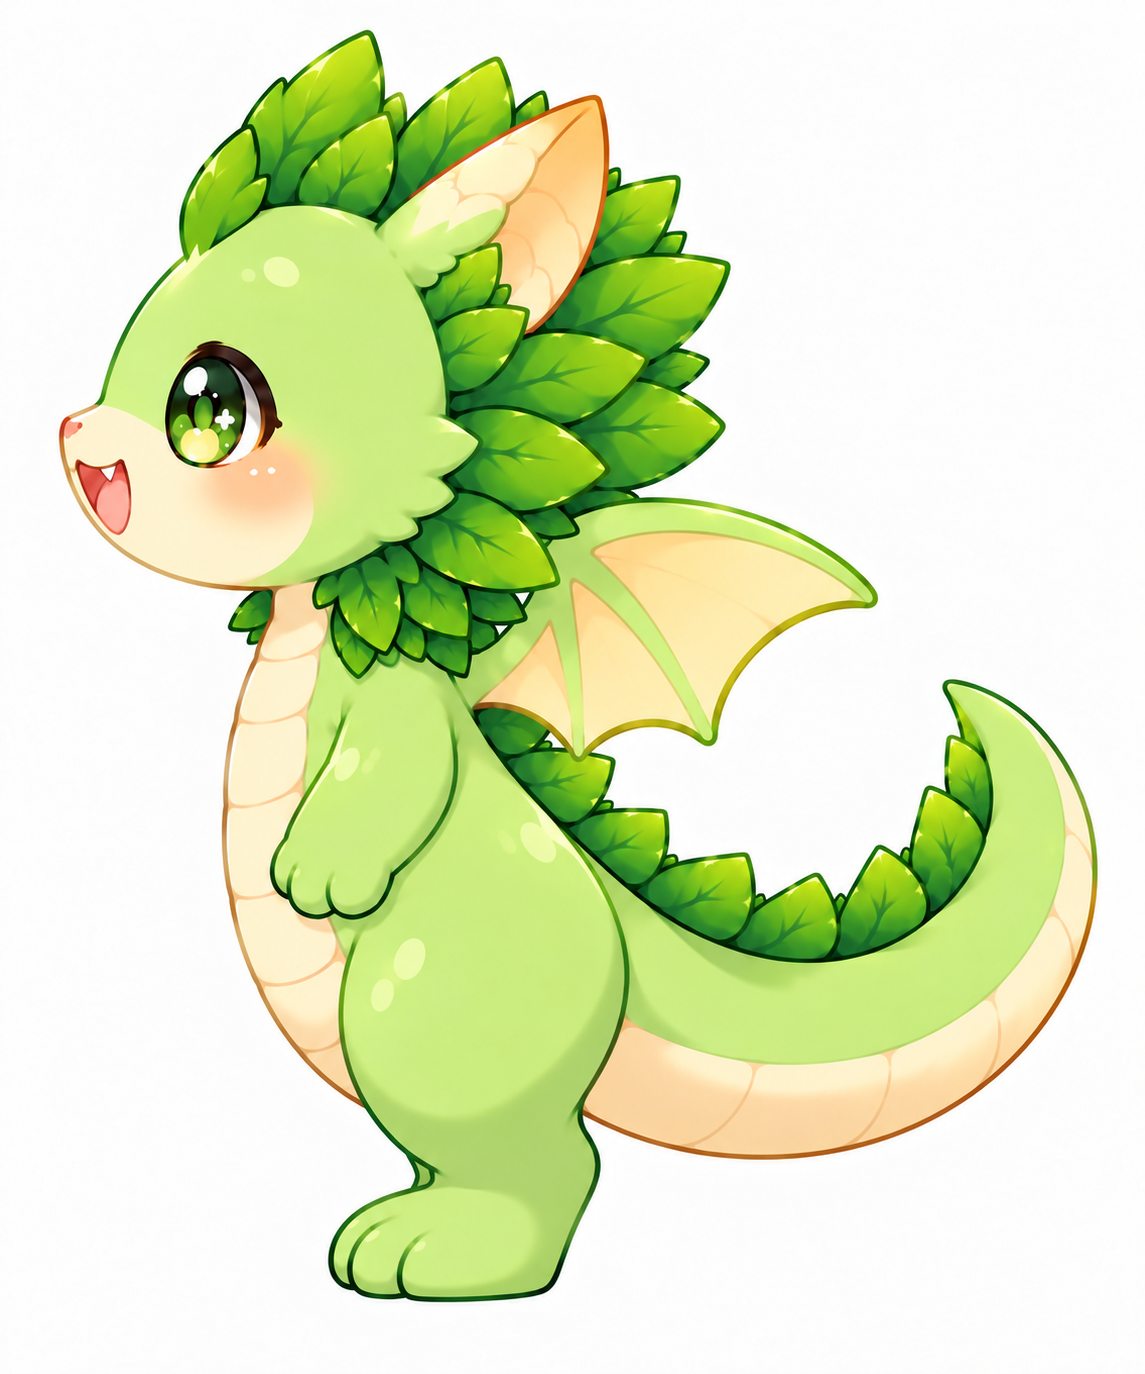
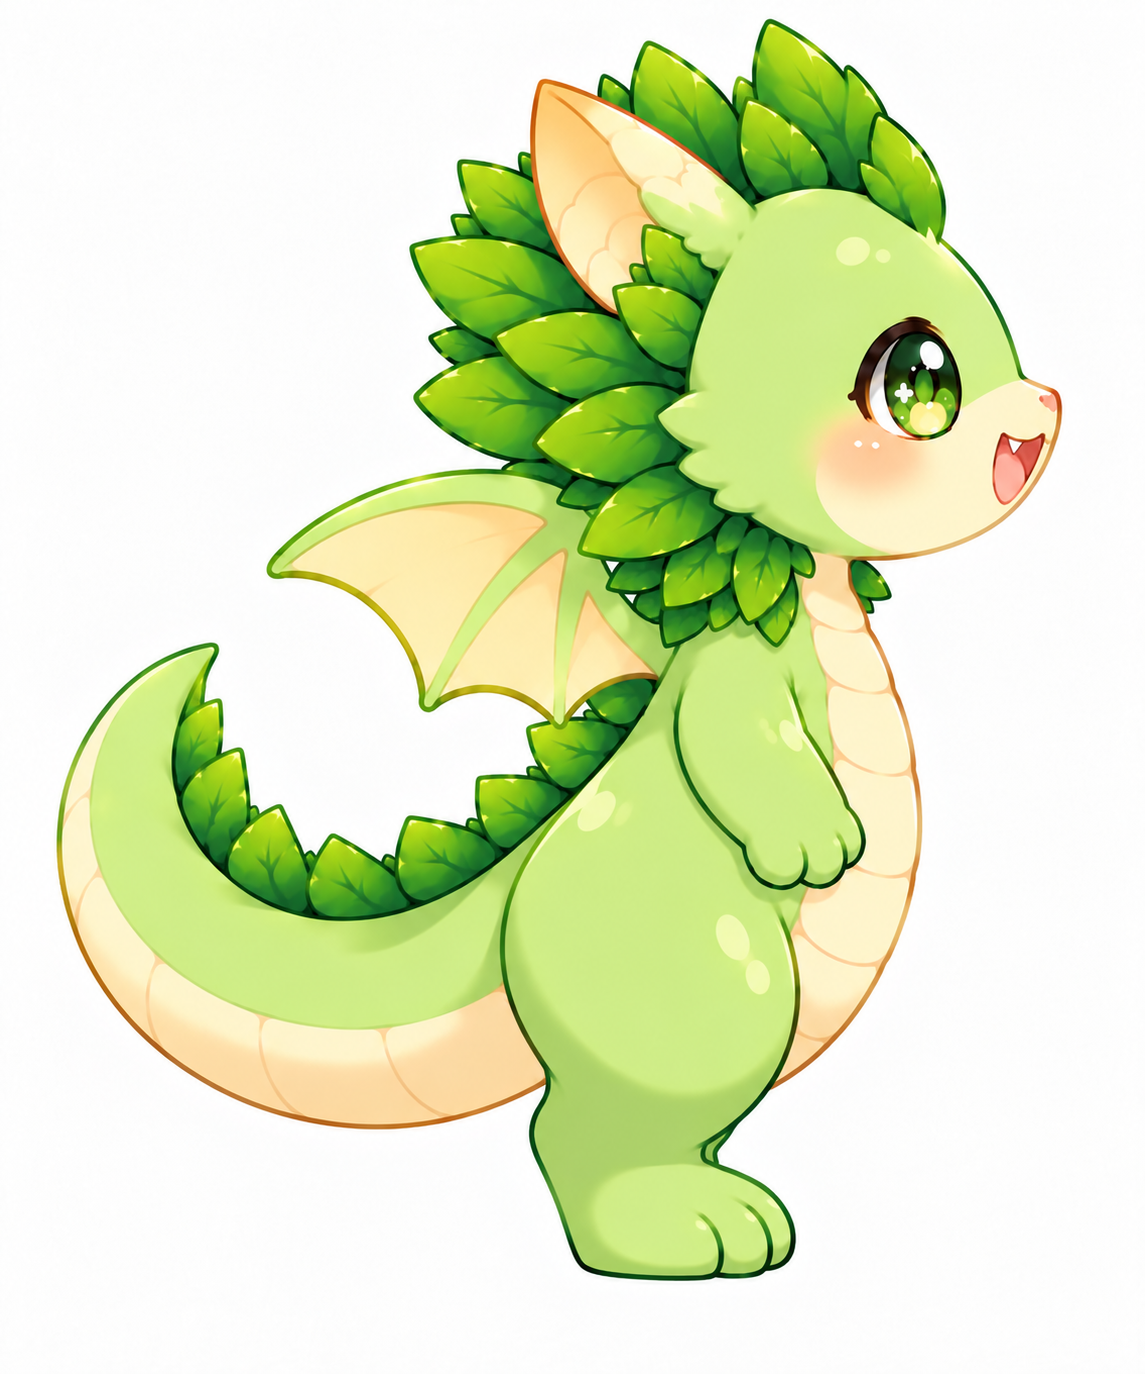
fix(grimo): replace Jill right view and record Carol three-view decision

diff --git a/docs/grimo/knowledge/character-production/GRIMO_BODY_ONLY_MULTIVIEW_ASSET_REGISTER.md b/docs/grimo/knowledge/character-production/GRIMO_BODY_ONLY_MULTIVIEW_ASSET_REGISTER.md
@@ -1,8 +1,8 @@
 # Grimo — Body-only Multiview Asset Register
 
-**Status:** 15/16 selected PNGs are registered at their production paths with hash-verified manifest entries. Carol Back is unavailable and remains pending. Tripo technical preflight is pending for all registered images.
+**Status:** All 15 currently selected PNGs are registered at their production paths with hash-verified manifest entries. Carol Back is intentionally omitted by Human decision; the planned three-view Tripo input is not yet confirmed as supported. Tripo technical preflight is pending for all registered images.
 **Updated:** 2026-10-11
-**Scope:** Carol / Jill / Pino / Shushu, four orthographic-ish source views per character. This is a scoped production registry, **not** replacement canonical identity.
+**Scope:** Carol has three selected views; Jill, Pino, and Shushu have four each. This is a scoped production registry, **not** replacement canonical identity.
 
 ## 1. Authority and safety
 
@@ -10,7 +10,7 @@
 2. Approved full-design art and established Carol geometry/support documents are preserved; body-only views are **derived image-to-3D inputs only**.
 3. Retain anatomical/identity-critical fleece, leaves, horns, wings, ears, eyes, paws/hooves, tail, markings. Remove only independently authored props (Carol moon/stars; Jill loose flowers/butterflies; Pino bubbles/water; Shushu crown/bouquet/loose flowers).
 4. The 2026-10-11 Human visual decisions accept Jill/Pino/Shushu **Front, left-facing Side, right-facing Opposite Side, Back** as 2D candidates. Jill's peach-colored paired head appendages are interpreted as **horn-like anatomy**, rather than conventional ears; do not perform an automatic "ear-back recolor" that would rewrite accepted appearance. Preserve head leaves, wing and tail relationships. Body markings that may have drifted (e.g. Jill's canonical clover) remain a later identity/material QA obligation.
-5. Carol's body-only Front, left-facing Side and right-facing Opposite Side have been recovered from prior user images; **do not presume a particular historical Carol Back revision is final** without matching the user's selected local source. Carol Back should pass the Human-visible body taper and three-part hoof/rear-foot identity check before promotion.
+5. Carol's body-only Front, left-facing Side and right-facing Opposite Side are the approved inputs. Human decided on 2026-10-11 not to create or use a Back image because repeated Back candidates failed the lower-body taper, hoof shape, and three-dimensional connection quality checks. Try the three approved views in Tripo if supported; this does not guarantee accurate reconstruction of unseen rear anatomy.
 6. No 2D approval implies successful Tripo reconstruction, mesh topology, rigging, motion, material, or mobile performance. No paid Tripo use without approval.
 
 ## 2. Proposed canonical *production-input* placement
@@ -19,7 +19,7 @@ Create each file below, retaining the **original PNG bytes**. These paths are di
 
 | Character | Front | Left-facing Side | Right-facing Opposite | Back |
 | --- | --- | --- | --- | --- |
-| Carol | `carol_bodyonly_front.png` | `carol_bodyonly_left.png` | `carol_bodyonly_right.png` | `carol_bodyonly_back.png` |
+| Carol | `carol_bodyonly_front.png` | `carol_bodyonly_left.png` | `carol_bodyonly_right.png` | *intentionally omitted by Human decision* |
 | Jill | `jill_bodyonly_front.png` | `jill_bodyonly_left.png` | `jill_bodyonly_right.png` | `jill_bodyonly_back.png` |
 | Pino | `pino_bodyonly_front.png` | `pino_bodyonly_left.png` | `pino_bodyonly_right.png` | `pino_bodyonly_back.png` |
 | Shushu | `shushu_bodyonly_front.png` | `shushu_bodyonly_left.png` | `shushu_bodyonly_right.png` | `shushu_bodyonly_back.png` |
@@ -32,7 +32,7 @@ Here **left/right mean the direction the character faces *on the image***: `left
 
 ## 2.1 Byte-exact source verification (15 verified originals)
 
-The following are **SHA-256 of the PNG bytes actually exported in the 2026-10-11 conversation**, verified before this register was authored. Use them to distinguish approved artwork from similarly named old images. Different PNG canvas sizes are intentional source facts, **not** instructions to resize the artwork. If a user-supplied local file does not match, report the discrepancy rather than silently replacing it. Carol Back is not in this verified set and is unavailable in the current import; the user confirmed no source is available. Its manifest entry is pending without fabricated dimensions or hash.
+The registered SHA-256 values identify the original PNG bytes. Different PNG canvas sizes are intentional source facts, **not** instructions to resize the artwork. If a user-supplied local file does not match, report the discrepancy rather than silently replacing it. Carol Back has no selected or registered source by Human decision; no pending file entry is required.
 
 | File | Dimensions (px) | SHA-256 |
 | --- | --- | --- |
@@ -42,7 +42,7 @@ The following are **SHA-256 of the PNG bytes actually exported in the 2026-10-11
[8 lines of base64/hex data omitted]
@@ -55,7 +55,7 @@ The following are **SHA-256 of the PNG bytes actually exported in the 2026-10-11
 ## 3. Registration requirements for local image-placement task
 
 - Start from actual current branch, working tree, and repository instructions; do not infer uploads exist in the remote. Locate newly added PNGs even when currently untracked.
-- Inspect the 16 selected images visually or against an image contact sheet and check their original provenance. Identify Carol Back from the user's *actual* final candidate rather than filename order, modification time or the first "back" match. If ambiguous, leave it pending and report clearly; do not fabricate, overwrite or silently substitute.
+- Inspect the 15 selected images visually and check their original provenance. Carol Back is excluded by the current Human decision; do not create a substitute or treat its absence as a pending asset task.
 - Preserve the bytes of the selected approved sources; compare SHA-256 before and after move/copy, and check simple PNG readability and dimensions. Do not regenerate, upscale, crop, normalize, or resave originals.
 - Only canonicalize clear duplicates/old versions **within this import's scope**. Before archiving/removing an old file, check its references, original authority role and unique bytes. Keep historically approved art, `approved-3d/`, original Carol Normal/Skin and image evidence intact.
 - If a duplicate is referenced from code/docs, update only the relevant references after verifying the intended authority. No bulk text replace across unrelated documentation.
@@ -72,4 +72,10 @@ The following are **SHA-256 of the PNG bytes actually exported in the 2026-10-11
 | Pino | Huge rounded *single* tail joining the rear pelvis, compact low body, short limbs, complete eye anatomy (original wink is an expression), underside paw pads |
 | Shushu | Large plush head, pink ear volumes and round body, short distinguishable limbs, grounded squat/sitting motion capability, sole/pad details; floral crown/bouquet are independent props |
 
-**Execution status (2026-10-11):** Fifteen verified PNGs are registered under the paths above; `assets/grimo/source/body-only-multiview-manifest.json` records measured dimensions and hashes. Carol Back remains unavailable/pending. All registered assets remain `BODY_ONLY_REFERENCE_ACCEPTED / TRIPO_PREFLIGHT_PENDING`; no Tripo-ready status is claimed.
+**Execution status (2026-10-11):** Fifteen selected PNGs are registered under the paths above; `assets/grimo/source/body-only-multiview-manifest.json` records measured dimensions and hashes. The 15-image count reflects the current selected set: three Carol views and four views for each other character. Carol's three approved views are the planned Tripo input; Studio support for three views and any recovered rear quality are unknown. All registered assets remain `BODY_ONLY_REFERENCE_ACCEPTED / TRIPO_PREFLIGHT_PENDING`; no Tripo-ready status is claimed.
+
+### Decision log — 2026-10-11 (Human)
+
[1 lines of base64/hex data omitted]
+- **Carol Back:** Repeated generated Back candidates did not meet quality for the lower-body taper, hooves, and three-dimensional connections. Do not generate or use a Back source for this input plan; try the approved Front/Left/Right set only if Tripo supports three views.
+- **Still unverified:** Tripo camera-slot mapping, support for three-view input, and the quality of any generated Carol model, especially unseen rear anatomy. The 2D selections do not establish Tripo or Rig readiness.

diff --git a/docs/production/motion/GRIMO_MOTION_EVIDENCE_PACK_DRAFT.md b/docs/production/motion/GRIMO_MOTION_EVIDENCE_PACK_DRAFT.md
@@ -67,7 +67,7 @@
 | Generation Pose = Rest Pose = Game Neutralという誤同一視 | **P/U**。入力形状を読みやすくする姿勢、rigの基準姿勢、体験上の通常姿勢を分離。POSEの角度/clearanceは実測ではない。Pino/Shushu座位Game NeutralはPLAN上まだ候補 | POSE §§0,2–7; PLAN §1 |
 | 旧制作方式・budget・数値 | **P**。LIVINGのruntime/制作推奨、CAROL冒頭のruntime baseline hypothesis、CAMERAのCarol「Final contract」という見出しを新しい技術決定に昇格しない。Full-Spatial+View-Weighted Polishは現行能力要件。mesh/rig/骨数/solver/手順は未確定 | ARCH §§0,2,11,21; OPS §§2,13; ANATOMY authority boundary |
 | Tripo適合性 | **U**。Studio 3D/auto-rig/preset/eligible Text-to-Motionを優先評価し、不足はCodex/Blenderで修復/制作するという**Aの方針**。4匹に使えること、品質、StudioとAPIの同等性は未検証。POSEの外部Help/slot記述はXであり最新能力の保証ではない。credit使用は明示Human承認が必要 | PLAN §0, Phase 4; POSE §§7–9 |
-| 2D selection vs production readiness | **A/U**。VIEWSは15/16登録、Carol Back unavailable/pending、全画像TRIPO_PREFLIGHT_PENDING。Jillの桃色頭部付属は最新Human解釈でhorn-like。左右名はimage-facing方向であり解剖学/Studio slotと異なる。clover等のmaterial QAは未完 | VIEWS §§1–3,6; INDEX; POSE §8 |
+| 2D selection vs production readiness | **A/U**。VIEWSには現在選定された15画像を登録済み。Carol BackはHuman判断で不使用、全画像TRIPO_PREFLIGHT_PENDING。Jillの桃色頭部付属は最新Human解釈でhorn-like。左右名はimage-facing方向であり解剖学/Studio slotと異なる。clover等のmaterial QAは未完 | VIEWS §§1–3,6; INDEX; POSE §8 |
 | Carol実行状態の古い「Current state」見出し | **A/U**。STATE内の2026-10-10更新と保存checkpointを区別。v001はHuman visual review待ち、Skin v004 default promotionは耳・Motion・runtime PASSではない。このbranchのSTATE snapshotを他branchの最新結果で推測更新しない | STATE「Normal semantic v001」「Normal/Fleece planning inputs」「Current state — 2026-09-29」 |
 | Eevee分析が「Pikachu corpus absent」と記す | 文書自身の5本corpus限界。今回P-AN/P-Mは別に存在する。E-AN §25の欠落をプロジェクト全体の欠落と誤読しない | E-AN §§0,25; P-AN §2; P-M §1 |
 | 外部開発者証言の参照形式 | **X/U**。LIVINGはrendered citation IDで開発者/心理学主張を記録している。本Packはその帰属を報告するのみ。一次出典URL・原文未再確認の主張をO/Aへ昇格しない | LIVING「開発者側から見た『可愛さ』の作り方」「証拠強度と残る不確実性」 |

diff --git a/docs/grimo/knowledge/character-production/GRIMO_TRIPO_GENERATION_POSE_CONTRACT_DRAFT.md b/docs/grimo/knowledge/character-production/GRIMO_TRIPO_GENERATION_POSE_CONTRACT_DRAFT.md
@@ -132,9 +132,9 @@ Check:
 
 **Human 2D selection, not Tripo/Blender PASS.** Jill / Pino / Shushu have now had their body-only Front, left-facing Side, right-facing Opposite Side, and Back visually selected as 2D image-to-3D candidates. All original canonical identity images retain higher final-appearance authority. Jill's peach-colored paired head appendages are interpreted as **horn-like anatomy** under the latest Human discussion, so an old "ears must be recolored on the back" assumption is not grounds for editing accepted art. Canonical body markings (including Jill's clover motif) still need later material/identity inspection.
 
-Carol has separately recovered body-only Front, left-facing Side and right-facing Opposite Side references; the correct final Back must be verified against the actually chosen local file and Carol's hoof/taper constraints before registration.
+Carol has approved body-only Front, left-facing Side and right-facing Opposite Side references. Human decided not to create or use a Back image after repeated candidates failed lower-body taper, hoof-shape, and three-dimensional-connection quality. Try the three views if Tripo supports them; rear reconstruction quality remains unverified.
 
-The immediate execution task is **file provenance, scoped placement, SHA-256 registration, and non-destructive archival/cleanup**, using [the body-only multiview asset register](GRIMO_BODY_ONLY_MULTIVIEW_ASSET_REGISTER.md). Only after image preflight should Tripo Studio slot mapping and authorized paid generation be considered.
+The current input decision update is recorded in [the body-only multiview asset register](GRIMO_BODY_ONLY_MULTIVIEW_ASSET_REGISTER.md): Jill Right has been replaced and Carol Back is intentionally omitted. Verify three-view Studio support during the next authorized preflight. Only after image preflight should Tripo Studio slot mapping and authorized paid generation be considered.
 
 The earlier section-8 directive to first create Jill Front is historical and is no longer the next step. **Generation pose ≠ rig rest pose ≠ game neutral**, and 2D image acceptance does not certify a 3D result.
 ## 9. Source links (external context)

diff --git a/docs/grimo/knowledge/GRIMO_PROJECT_KNOWLEDGE_ROUTER.md b/docs/grimo/knowledge/GRIMO_PROJECT_KNOWLEDGE_ROUTER.md
@@ -45,9 +45,9 @@ Technical design: coherent full-spatial 3D, maximum perceptual polish in the fro
 
 ## 3.1 2026-10-11 image registration handoff
 
-- [Body-only multiview asset register](character-production/GRIMO_BODY_ONLY_MULTIVIEW_ASSET_REGISTER.md) is the scoped source for the 16-name target and `assets/grimo/source/<character>/tripo-generation-pose/` placement. As of 2026-10-11, 15 hash-verified PNGs are registered locally; Carol Back is unavailable and pending. The local manifest records measured values; Tripo preflight remains pending.
+- [Body-only multiview asset register](character-production/GRIMO_BODY_ONLY_MULTIVIEW_ASSET_REGISTER.md) is the scoped source for the scoped production-input set and `assets/grimo/source/<character>/tripo-generation-pose/` placement. As of 2026-10-11, 15 selected PNGs are hash-verified locally. Carol Back is intentionally omitted by Human decision; try the approved three views if Tripo supports them. The local manifest records measured values; Tripo preflight remains pending.
 - Image names `*_bodyonly_left.png` / `*_bodyonly_right.png` indicate **face direction on the picture**, not Tripo camera-side semantics.
-- Jill/Pino/Shushu four-view 2D Human selections were accepted on 2026-10-11. Jill's peach-colored head appendages are treated as horn-like, not conventional ears. Carol Front/left/right are recoverable user-provided body-only inputs; confirm the *selected* Carol Back revision rather than promoting a historical Back by filename.
+- Jill/Pino/Shushu four-view 2D Human selections were accepted on 2026-10-11. Jill's peach-colored head appendages are treated as horn-like, not conventional ears. Carol Front/left/right are approved body-only inputs; Human decided not to create or use a Carol Back image. Three-view Studio support remains unknown.
 - These inputs remain subordinate to canonical identity; all characters retain independent accessories in their completed appearance. 2D acceptance is not 3D mesh/rigging or Tripo technical acceptance.
 
 ## 4. Remaining visual-authority caution

diff --git a/docs/grimo/knowledge/GRIMO_PROJECT_KNOWLEDGE_INDEX.md b/docs/grimo/knowledge/GRIMO_PROJECT_KNOWLEDGE_INDEX.md
@@ -22,7 +22,7 @@ Use this index to locate durable authority. Current execution truth is not durab
 
 ## 2026-10-11 Body-only multi-view image import
 
-- [Four-character body-only multi-view asset register](character-production/GRIMO_BODY_ONLY_MULTIVIEW_ASSET_REGISTER.md) — 15/16 registered PNGs, **image-facing** left/right convention, visual decision boundaries, Carol Back unavailable/pending status, and measured SHA manifest.
+- [Four-character body-only multi-view asset register](character-production/GRIMO_BODY_ONLY_MULTIVIEW_ASSET_REGISTER.md) — 15 currently selected PNGs, **image-facing** left/right convention, visual decision boundaries, Carol three-view Human decision, and measured SHA manifest.
 - Body-only assets are **derivative Tripo inputs**, not canonical identities or replacements for completed Carol Normal/Skin. The local Codex import will confirm committed binaries and provenance; a GitHub Markdown registry does not mean the PNGs are pushed or Tripo-ready.
 - Jill's peach-colored head appendages are treated as **horn-like anatomy** by the latest Human interpretation; do not automatically recolor as ear backs. Final material identity (including canonical clover marking) still requires QA.
 

diff --git a/docs/production/motion/GRIMO_FOUR_CHARACTER_MOTION_ZERO_BASED_PLAN_20261011.md b/docs/production/motion/GRIMO_FOUR_CHARACTER_MOTION_ZERO_BASED_PLAN_20261011.md
@@ -26,7 +26,7 @@ Primary evidence + present Grimo authority
 
 This work is **research and design only** until specifically authorized otherwise: no Tripo generation, Blender modeling/rigging, asset replacement, application code edits, Motion implementation, credit spend or old approved document replacement.
 
-Four canonical identity images govern external appearance. Current Human-approved 2D body-only views are subsidiary generation references, **not** proof of rig compatibility or a new canonical identity. As checked on 2026-10-11, 15/16 body-only views are registered; Carol Back remains outstanding; Tripo technical preflight is not passed.
+Four canonical identity images govern external appearance. Current Human-approved 2D body-only views are subsidiary generation references, **not** proof of rig compatibility or a new canonical identity. As updated on 2026-10-11, all 15 currently selected body-only images are registered; Carol Back is intentionally omitted by Human decision. Tripo support for the planned three-view input and technical preflight remain unverified.
 
 ## 1. Authority and relevant evidence
 
